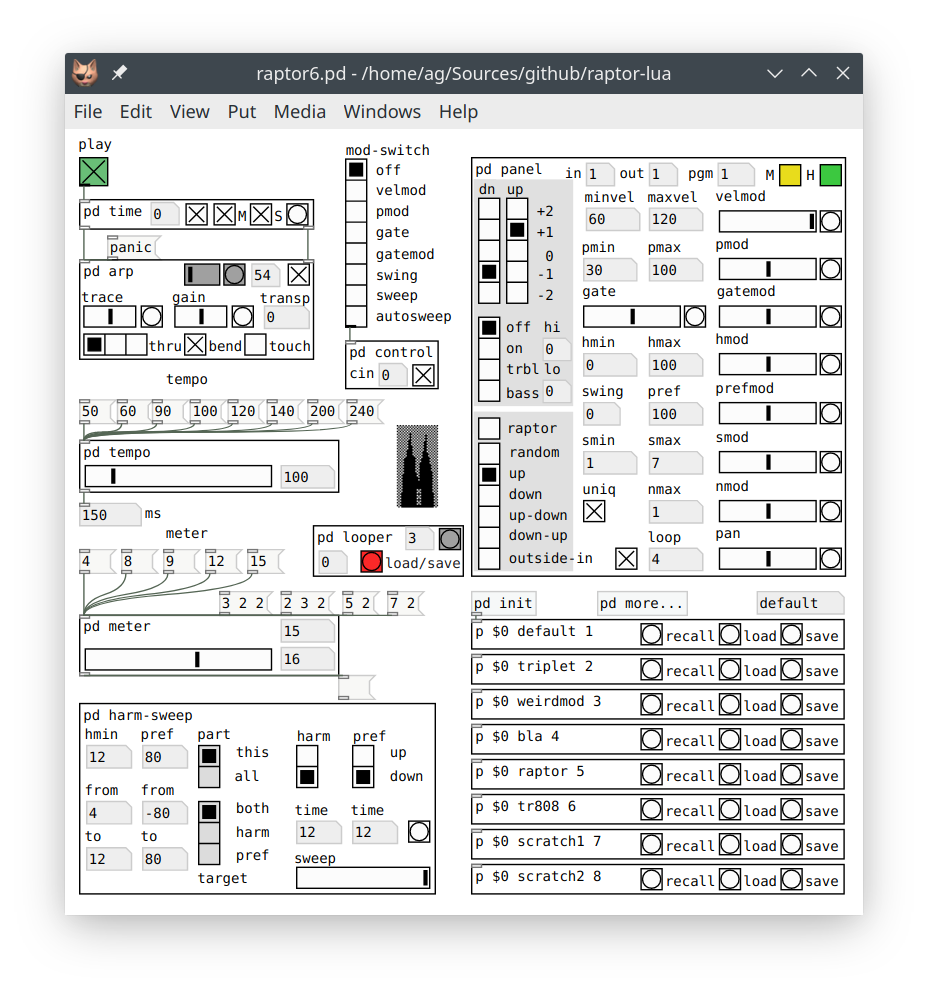
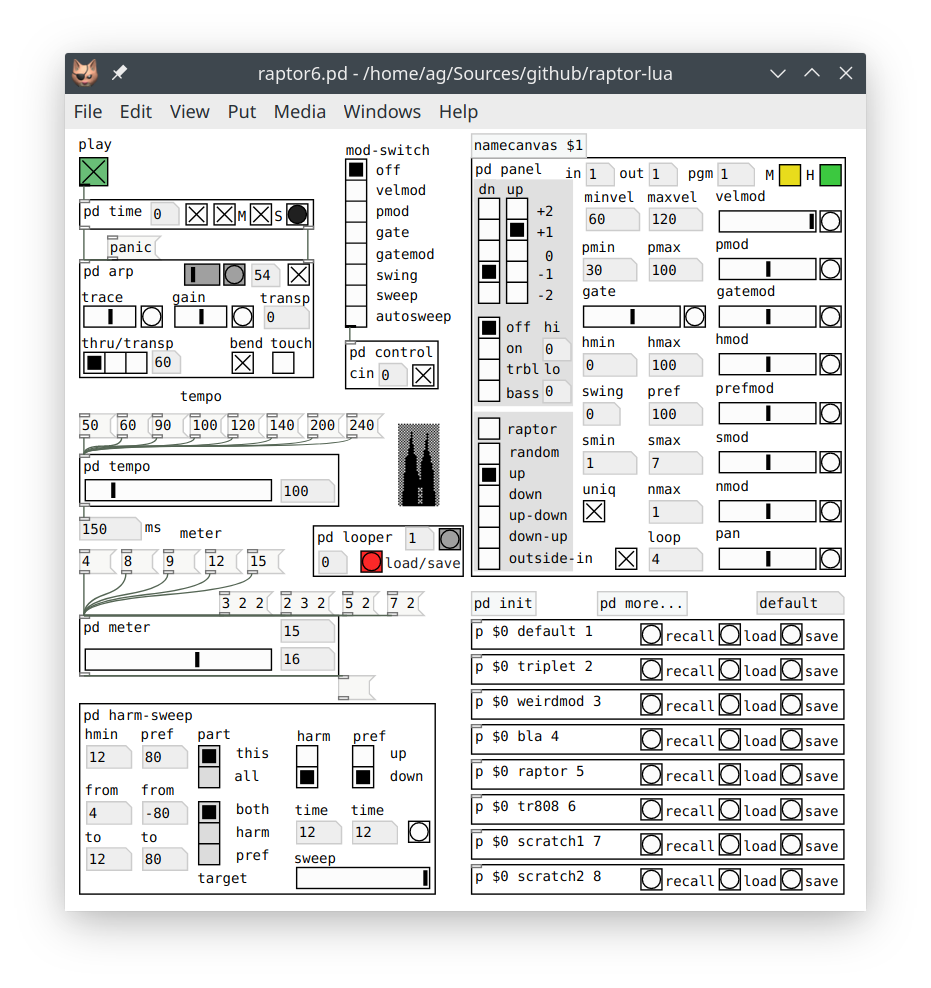
Update documentation.

Changed region(s): [[0.0625, 0.0607, 0.9375, 0.9109]]

diff --git a/README.md b/README.md
@@ -17,35 +17,33 @@ This project is still work in progress. In particular, the included presets need
 
 ## Getting Started
 
-We recommend running this patch with [Purr Data][], as it includes pd-lua and the other required libraries, and the layout of the GUI has been optimized for that version. But the patch should also work fine in Miller Puckette's "vanilla" [Pd][] if you have [pd-lua][], [zexy][], and [ggee][] installed; the GUI might look a bit wonky, though. **NB:** When using vanilla Pd, make sure that you use a version of pd-lua for Lua 5.3 or later, you can find this [here](https://agraef.github.io/pd-lua/); zexy and ggee can be installed from [Deken][].
+We recommend running this patch with [Purr Data][], as it includes pd-lua and the other required libraries, and the layout of the GUI has been optimized for that version. But the patch should also work fine in Miller Puckette's "vanilla" [Pd][] if you have the required libraries ([pd-lua][], [zexy][], [iemguts][], and [ggee][]) installed; the GUI might look a bit wonky, though. **NB:** When using vanilla Pd, ggee, iemguts, and zexy can all be installed from [Deken][], but please note that Raptor absolutely needs a version of pd-lua for **Lua 5.3+**, you can find this [here](https://agraef.github.io/pd-lua/) (the pd-lua versions usually distributed with Pd are for Lua 5.2 at best, and the version in Deken is even more outdated).
 
-We assume that you're already familiar with Pd, so you know how to open a Pd patch and use it. There is no real installation process, just download the latest Raptor release or the current git source from [GitHub](https://github.com/agraef/raptor-lua) and unpack it. If Pd has been set up properly, double-clicking the raptor6.pd file (or running something like `purr-data raptor6.pd` from the command line on Linux) should do the trick. If that gives you a bunch of error messages in the Pd console window, then you probably need to install some Pd add-on libraries first, see above.
+We assume that you're already familiar with Pd, so you know how to open a Pd patch and use it. There is no real installation process, just download the latest Raptor release or the current git source from [GitHub](https://github.com/agraef/raptor-lua) and unpack it. If Pd has been set up properly, double-clicking the raptor6.pd file (or running something like `purr-data raptor6.pd` from the command line on Linux) should open the patch in Pd. If that gives you a bunch of error messages in the Pd console window, then you probably need to install some Pd add-on libraries first, see above.
 
-The raptor6.pd patch can be invoked by itself, or as a subpatch in another patch. In the latter case, you can also specify the name of an "autostart" preset to be recalled on startup as an argument (see the included the-raptors.pd patch for an example). If no autostart preset is given, then all parameters will be set to factory defaults, which can be found in the `init` subpatch. A few sample presets are included in the presets folder, use the `p` abstractions in the lower right corner of the main patch to switch between these, or create your own. As shipped, the first preset labeled `default` is identical to the factory defaults, so that you can quickly restore some sane defaults if needed. More presets can be found in the `more...` subpatch.
+The raptor6.pd patch can be invoked by itself, or as a subpatch in another patch. In the latter case, you can also specify the name of an "autostart" preset to be recalled on startup as an argument (see the the-raptors.pd "orchestra" patch included in the distribution for an example). If no autostart preset is given, then all parameters will be set to factory defaults, which can be found in the `init` subpatch. A few sample presets are included in the presets folder, use the `p` abstractions in the lower right corner of the main patch to switch between these, or create your own. As shipped, the first preset labeled `default` is identical to the factory defaults, so that you can quickly restore some sane defaults if needed. More presets can be found in the `more...` subpatch.
 
-The main patch has quite a few controls to change meter, tempo, and the other parameters of the algorithm. The current state of all these parameters is stored in a preset on disk if you hit the `save` button, so that you can recall it later with the `recall` button. The `load` button lets you reload a preset from disk and immediately recall it, which is useful if you edited the preset outside of Raptor in a text editor. And of course all presets are reloaded automatically when you launch Raptor.
-
-Presets are stored on disk as editable text files in Pd's qlist format (which basically just lists parameter names and their corresponding values). The file name is specified using the second argument of the `p` abstraction, and the third argument indicates the PC (program change) number which can be used to recall the preset using MIDI control. The latter is optional, but the first argument of the `p` abstraction is mandatory and *must* be `$0`, which tells the abstraction which Raptor instance to operate on.
+The main patch has quite a few controls to change meter, tempo, and the other parameters of the algorithm. The current state of all these parameters is stored in a preset on disk if you hit the `save` button, so that you can recall it later with the `recall` button. The `load` button lets you reload a preset from disk and immediately recall it, which is useful if you edited the preset outside of Raptor in a text editor. Presets are stored on disk as editable text files in Pd's qlist format (which basically just lists parameter names and their corresponding values). The file name is specified in the second argument of the `p` abstraction, and the third argument indicates the PC (program change) number which can be used to recall the preset using MIDI control. The latter is optional, but the first argument of the `p` abstraction is mandatory and *must* be `$0`, which tells the abstraction which Raptor instance to operate on.
 
 ## Customizations
 
-Raptor offers most of the configuration options needed for common uses through its preset system, however we can't and won't cover every use case under the sun. One of the great boons of using Pd instead of a custom-built application is that you can just go into the patch and customize it for your own needs. This might seem like a tough call if you're still new to Pd, but most Pd users start doing this sooner or later, and simple modifications such as changing a few default options here and there don't actually require that much Pd knowledge. Of course, it's also possible to get things messed up and render the patch unusable that way, but with due diligence you should be able avoid such mishaps, and if you don't then you can always restore the original source if needed.
+Raptor offers most of the configuration options needed for common uses through its preset system, however we can't and won't cover every use case under the sun. One of the great boons of using Pd instead of a custom-built application is that you can just go into the patch and customize it for your own needs. This might seem like a tough call if you're still new to Pd, especially with a complicated patch like Raptor, but most Pd users start doing this sooner or later, and simple modifications such as changing a few default options here and there don't actually require that much Pd knowledge.
 
-The easiest customization options are those visible in the GUI (graphical user interface). We discuss most of these in the following section. Whenever a GUI control is described as "saved in the patch", then you can just change it and save the main patch; et voilà, next time you launch Raptor, it will use the modified default. Generally, most options in Raptor are either of this kind, or they will be saved in the presets. The same is true for the various tempo and meter options in the main patch (the Pd "message" objects looking like little flags); I've tried to include some common defaults there, but your needs aren't the same as mine, so feel free to edit these as needed and save the patch to make your choices permanent.
+The easiest customization options are those visible in the GUI (graphical user interface). We discuss most of these in the following section. Whenever a GUI control is described as "saved in the patch", you can just change it and save the main patch; et voilà, next time you launch Raptor, it will use the new default that you just set. Generally, most options in Raptor are either of this kind, or they will be saved in the presets. The same is true for the various tempo and meter options in the main patch (the Pd "message" objects looking like little flags); I've tried to include some common defaults there, but your needs aren't the same as mine, so feel free to edit these as needed and save the patch to make your choices permanent.
 
 Other options will be hidden away in the various subpatches (`pd` objects) of the main patch. You probably won't have much reason to edit these, unless you want to rearrange the GUI controls in a subpatch or change some defaults, but to give you an overview, here's a quick rundown from top to bottom and left to right:
 
-- `time`: Basically, this is a Pd `metro` object generating pulses for the arpeggiator, but it also takes care of synchronizing different Raptor instances and handle MIDI clock sync with external programs.
-- `arp`: The arpeggiator itself, including note input and output, looper, and time-related processing. Its core is the `arpeggiator` object which does most of the heavy lifting and is written in Lua, but everything else is just plain Pd code.
+- `time`: Basically, this is a Pd `metro` object generating pulses for the arpeggiator, but it also takes care of synchronizing different Raptor instances and handles MIDI clock sync with external programs.
+- `arp`: The arpeggiator itself, including note input and output, looper control logic, and time-related processing. Its core is the `arpeggiator` object which does most of the heavy lifting and is written in Lua, but everything else is just plain Pd code.
 - `tempo` and `meter`: Controls for setting up, you guessed it, tempo and meter.
-- `harm-sweep`: Controls and logic for the harmonicity sweep effect which leverages Raptor's harmonicity-based processing. It's described in the section on harmonicity.
-- `control`: Basic MIDI control and PACER support.
+- `harm-sweep`: Controls and logic for the "harmonicity sweep" effect which leverages Raptor's advanced harmonicity-based processing. As far as I can tell, this kind of effect simply isn't available in other arpeggiators, so you should really check it out (it's explained in the section on harmonicity).
+- `control`: Basic MIDI control and PACER support. This is the subpatch that you'll want to customize if my PACER bindings don't suit your needs, or if you're using a different foot controller and would like to replicate at least some of the functionality offered by my PACER setup.
 - `looper`: Some extra controls for the looper which let you load and save loops from/to disk files.
-- `panel`: This has all the GUI controls for arpeggiator parameters.
-- `init`: Initialization of the patch, this is the right subpatch to look at if you want to change any of Raptor's factory defaults or the actions to be carried out when a Raptor instance launches.
-- `more...`: Some factory presets can be found below this subpatch, and even more in the subpatch.
+- `panel`: This has all the GUI controls for the parameters of the arpeggiator.
+- `init`: Initialization, this is where you go if you want to change any of Raptor's factory defaults.
+- `more...`: Some extra factory presets, you can also place your own custom presets there.
 
-The presets can all be edited to your heart's content, but you should *always* keep the first `default` preset as is, because it also takes care of MIDI control input for the preset parameters of *all* presets. The MIDI bindings themselves are hard-wired, and that's a good thing because it makes MIDI CC automation in DAWs portable across different Raptor installations. But if you have to change them anyway, you can do so in the p.pd patch contained in the lib directory.
+In the lower right corner of the main patch you can find all the factory presets. Note that in the current implementation all presets that you're going to use need to exist as `p` abstractions *in the Raptor main patch*, so that they know which Raptor instance to talk to (that's what the `$0` argument of the `p` abstraction is for). The presets can all be edited to your heart's content, but you should *always* keep the first `default` preset as is, because it also takes care of the MIDI control input for the preset parameters. The MIDI bindings themselves are hard-wired (see the Control section below for details), and that's a good thing because it makes MIDI CC automation in DAWs portable across different Raptor installations. But if you absolutely need to change them for some reason, you can do so in the source of the `p` abstraction, i.e., the p.pd patch contained in the lib directory.
 
 ## The GUI
 
@@ -57,15 +55,15 @@ The `mod-switch` control goes into the `control` subpatch which contains the int
 
 Next, in the `time` subpatch there are the time master and MIDI clock sync toggles (labeled `M` and `S`, respectively, both saved in the patch), which will be discussed in the section on tempo and time below. There's another (unlabeled) start/stop toggle (not saved) which enables you to start and stop the sequence manually, and a pulse button to trigger individual pulses in a step-wise fashion, which can be useful for debugging purposes. The pulse button also goes red to indicate MIDI clock sync. The little "anacrusis" numbox on the left will set the pulse offset from the beginning of a bar (counting from zero) when playback starts. This is filled in automatically if your DAW sends song position pointer (SPP) messages, but you can also set it manually (whether using MIDI clock sync or not) if you need to start playback on an upbeat.
 
-Last but not least, there's the `arp` subpatch containing the guts of the arpeggiator itself. You can send a `panic` message to the arpeggiator to kill hanging notes, and switch the metronome tick on and off with the toggle control in the upper-right corner (saved in the patch). The gray slider displays the pulse strengths, and the gray beat indicator next to it briefly flashes at the beginning of each bar (it also goes red if you stop the sequence, until the arpeggiator finishes playing the current bar). We mention in passing that the metronome "tick" does a lot more than just clicks. In fact it's a little drum sequencer driven by the same data that the arpeggiator itself uses, so it adjusts to the meter and generates output with varying velocities for a GM drumset on channel 10. Its sound can be customized by setting the GM drumkit note number in the little numbox, saved in the patch.
+Last but not least, there's the `arp` subpatch containing the guts of the arpeggiator itself. You can send a `panic` message to the arpeggiator to kill hanging notes, and switch the metronome tick on and off with the toggle control in the upper-right corner (saved in the patch). The gray slider displays the pulse strengths, and the gray beat indicator next to it briefly flashes at the beginning of each bar (it also goes red if you stop the sequence, until the arpeggiator finishes playing the current bar). We mention in passing that the metronome does a lot more than just clicks. In fact it's a little drum sequencer driven by the same pulse strength data that the arpeggiator itself uses, so it adjusts to the meter and generates output with varying velocities for a GM drumset on channel 10. Its sound can be customized by setting the GM drumkit note number in the little numbox, saved in the patch.
 
-In the second row you find some options affecting note input and output. The `trace` control (saved in the patch) changes the amount of time that incoming note-offs are delayed. This produces a kind of "legato" effect, making notes stick around a little longer while you're changing chords. The slider goes from 0 to 600 ms and should be adjusted to your playing style; zero means off, and the default is 300 ms. The `gain` control ties in with the *velocity tracker*, a function which calculates a kind of envelope from the velocities of the notes that you play and adjusts the velocities of output notes generated by the arpeggiator accordingly. Normally, this value actually controls the mix between preset velocity values (`minvel`, `maxvel`) and the calculated envelope. However, during loop playback it becomes a real gain control which changes the output velocities by -3 to +3 dB (half to double velocity). The `gain` control is bound to the MIDI volume controller (CC7) and also stored in presets. Both `trace` and `gain` also have buttons to quickly reset them to their default center values. The `transp` control (which also has a MIDI binding and is stored in presets) lets you transpose the note output by a given number of semitones.
+In the second row you find some options affecting note input and output. The `trace` control (saved in the patch) changes the amount of time that incoming note-offs are delayed. This produces a kind of "legato" effect, making notes stick around a little longer while you're changing chords. The slider goes from 0 to 600 ms and should be adjusted to your playing style; the default is 300 ms, and zero means off. The `gain` control ties in with the *velocity tracker*, a function which calculates a kind of envelope from the velocities of the notes that you play and adjusts the velocities of output notes generated by the arpeggiator accordingly. Normally, this value actually controls the mix between preset velocity values (`minvel`, `maxvel`) and the calculated envelope, ranging from 0 (all envelope) to 127 (all preset). However, during loop playback it becomes a real gain control which changes the output velocities by -3 to +3 dB (half to double velocity). The `gain` control is bound to the MIDI volume controller (CC7) and also stored in presets. Both `trace` and `gain` also have buttons to quickly reset them to their default center values. The `transp` control (which also has a MIDI binding and is stored in presets) lets you transpose the note output by a given number of semitones; in loop mode, this can also be controlled more conveniently through note input, see below.
 
-The third row contains some extra MIDI processing options. The `thru` radio button offers three different options for note input: 0 = "off" disables pass-through, 1 = "thru" enables it, and 2 = "transp" links note input (more precisely, the offset of note numbers relative to middle c = 60) to the `transp` control; the latter only works during loop playback. Two additional toggles, `bend` and `touch` determine whether to pass through pitch bend and monophonic aftertouch (channel pressure) messages to the output. These controls are all saved in the patch; pass-through is enabled for pitch bend and disabled for aftertouch and note input in the factory settings.
+The third row contains some customary processing options for note input and related MIDI data. The `thru/transp` radio button offers three different options for note input: from left to right, the first option ("off") disables pass-through; the second option ("thru") enables it, so that input notes are passed on from MIDI input to output (which is useful if you'd like to hear what you're playing and your MIDI instrument doesn't offer local playback); and the third option ("transp") links note input to the `transp` control. The latter option is only available in loop mode and works in the usual way, i.e., the positive or negative amount of transposition in semitones is given by the offset of your input notes from a center note, usually middle c = 60 (this can be changed in the little numbox next to the radio button). Thus playing the center note resets `transp` to zero, higher notes transpose upwards, lower notes downwards, you get the idea. Finally, two additional toggles, `bend` and `touch` determine whether to pass through pitch bend and monophonic aftertouch (channel pressure) messages to the output. These controls are all saved in the patch; by default, pass-through is enabled for pitch bend and disabled for aftertouch and note input in the factory settings.
 
 ## Control
 
-Most of Raptor's parameters have MIDI bindings, so they can be automatized, e.g., in a DAW:
+Raptor's parameters have the following generic MIDI bindings, so that they can be operated from a control surface and automatized if you're driving Raptor from a DAW:
 
 | Control    | Range     | Meaning                                                      |
 | ---------- | --------- | ------------------------------------------------------------ |
@@ -197,6 +195,7 @@ That said, some usability improvements might still be in order. Since there's no
 [Purr Data]: https://agraef.github.io/purr-data/
 [Pd]: http://msp.ucsd.edu/software.html
 [ggee]: https://github.com/pd-externals/ggee
+[iemguts]: https://github.com/iem-projects/pd-iemguts
 [zexy]: https://github.com/iem-projects/pd-zexy
 [pd-lua]: https://agraef.github.io/pd-lua/
 [Deken]: https://github.com/pure-data/deken
